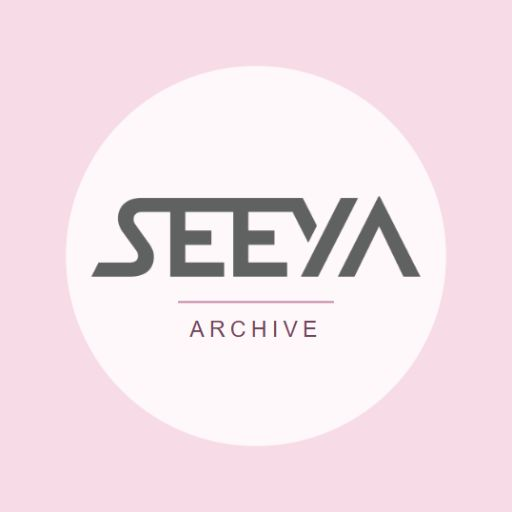
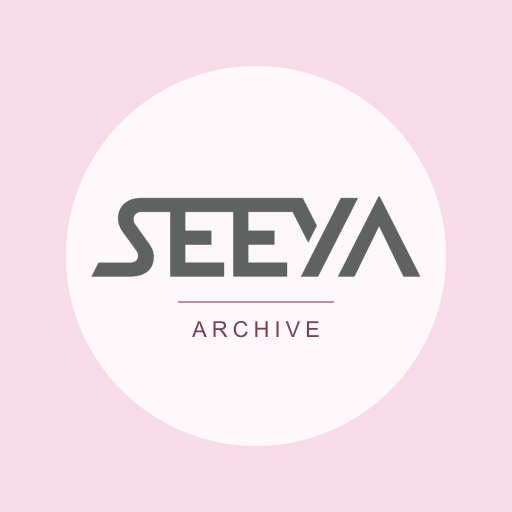
4.187

Changed region(s): [[0.3438, 0.5625, 0.6562, 0.5938], [0.375, 0.625, 0.625, 0.6562]]

diff --git a/scripts/check-icon-pixels.js b/scripts/check-icon-pixels.js
@@ -1,0 +1,31 @@
+'use strict';
+const assert=require('node:assert/strict'),zlib=require('node:zlib');
+// Decode our non-interlaced RGB/RGBA PNGs using Node only. A valid canvas size
+// alone missed the white bottom/right strips in the old 180/192 px exports.
+module.exports=function checkIcon(bytes,label){
+ const w=bytes.readUInt32BE(16),h=bytes.readUInt32BE(20),type=bytes[25];
+ assert.equal(bytes[24],8,label+' bit depth');
+ assert([2,6].includes(type),label+' must be RGB/RGBA');
+ assert.equal(bytes[28],0,label+' interlace');
+ const channels=type===2?3:4,stride=w*channels,chunks=[];
+ for(let at=8;at<bytes.length;){const length=bytes.readUInt32BE(at),kind=bytes.toString('ascii',at+4,at+8);if(kind==='IDAT')chunks.push(bytes.subarray(at+8,at+8+length));at+=12+length;}
+ const raw=zlib.inflateSync(Buffer.concat(chunks)),pixels=Buffer.alloc(stride*h);
+ assert.equal(raw.length,(stride+1)*h,label+' scanlines');
+ function paeth(a,b,c){const p=a+b-c,pa=Math.abs(p-a),pb=Math.abs(p-b),pc=Math.abs(p-c);return pa<=pb&&pa<=pc?a:pb<=pc?b:c;}
+ for(let y=0;y<h;y++){
+  const filter=raw[y*(stride+1)];assert(filter<=4,label+' PNG filter');
+  for(let x=0;x<stride;x++){
+   const i=y*stride+x,a=x>=channels?pixels[i-channels]:0,b=y?pixels[i-stride]:0,c=y&&x>=channels?pixels[i-stride-channels]:0;
+   const delta=[0,a,b,Math.floor((a+b)/2),paeth(a,b,c)][filter];pixels[i]=(raw[y*(stride+1)+1+x]+delta)&255;
+  }
+ }
+ const bg=[247,220,231];
+ for(let y=0;y<h;y++)for(let x=0;x<w;x++){
+  const i=(y*w+x)*channels;
+  if(channels===4)assert.equal(pixels[i+3],255,label+' transparent pixel');
+  // Full bleed on all four sides; no baked-in rounded mask or capture border.
+  if(x<3||y<3||x>=w-3||y>=h-3)for(let c=0;c<3;c++)assert(Math.abs(pixels[i+c]-bg[c])<=1,label+' non-pink edge at '+x+','+y);
+  // Keep every mark within the central 80% circle, safe for maskable launchers.
+  if(Math.hypot(x+.5-w/2,y+.5-h/2)>w*.4)for(let c=0;c<3;c++)assert(Math.abs(pixels[i+c]-bg[c])<=1,label+' artwork outside safe area');
+ }
+};

diff --git a/build.js b/build.js
@@ -122,7 +122,7 @@ for(const route of [...routes,previewRoute,mapPreviewRoute]){
  if(key==='exam'||key==='exam-preview'){vars.pageHead=`<meta name="referrer" content="no-referrer"><link rel="stylesheet" href="${examCss}">`;vars.scripts=`<script defer src="${examJs}"></script>`;}
  if(key!=='map-preview')vars.scripts+=`\n<script defer src="${mobileMenuJs}"></script>`;
  vars.themeColor=esc(pwa.theme_color);
- vars.pwaHead=route.unlisted?'':`<link rel="manifest" href="/manifest.webmanifest">\n<link rel="apple-touch-icon" sizes="180x180" href="/images/app/apple-touch-icon-180.png">\n<meta name="mobile-web-app-capable" content="yes">\n<meta name="apple-mobile-web-app-capable" content="yes">\n<meta name="apple-mobile-web-app-title" content="${esc(pwa.short_name)}">\n<meta name="apple-mobile-web-app-status-bar-style" content="default">`;
+ vars.pwaHead=route.unlisted?'':`<link rel="manifest" href="/manifest.webmanifest">\n<link rel="apple-touch-icon" sizes="180x180" href="/images/app/apple-touch-icon-180-v2.png">\n<meta name="mobile-web-app-capable" content="yes">\n<meta name="apple-mobile-web-app-capable" content="yes">\n<meta name="apple-mobile-web-app-title" content="${esc(pwa.short_name)}">\n<meta name="apple-mobile-web-app-status-bar-style" content="default">`;
  if(!route.unlisted)vars.scripts+=`\n<script defer src="${pwaJs}"></script>\n<script defer src="${offlineJs}"></script>`;
  let output=(key==='map-preview'?read('src/map-preview-template.html'):template).replace(/\{\{(\w+)\}\}/g,(_,key)=>{if(!(key in vars))throw new Error('Unknown template key '+key);return vars[key];});
  if(route.noindex)output=output.replace(/(<meta name="(?:robots|googlebot)" content=")[^"]+/g,'$1noindex,follow');

diff --git a/scripts/check-pwa.js b/scripts/check-pwa.js
@@ -5,10 +5,12 @@ const manifest=JSON.parse(read('manifest.webmanifest'));
 assert.deepEqual(manifest,JSON.parse(read('src/data/pwa.json')));
 assert.equal(manifest.id,'/');assert.equal(manifest.scope,'/');assert.equal(manifest.display,'standalone');
 assert.equal(new URL(manifest.start_url,'https://seeya-fanpage.com').pathname,'/');
-for(const icon of [...manifest.icons,{src:'/images/app/apple-touch-icon-180.png',sizes:'180x180'}]){
+for(const icon of [...manifest.icons,{src:'/images/app/apple-touch-icon-180-v2.png',sizes:'180x180'}]){
  const bytes=fs.readFileSync(path.join(root,icon.src.slice(1)));
  assert.equal(bytes.subarray(1,4).toString(),'PNG');
  assert.equal(`${bytes.readUInt32BE(16)}x${bytes.readUInt32BE(20)}`,icon.sizes,icon.src);
+ require('./check-icon-pixels')(bytes,icon.src);
+ assert.deepEqual(bytes,fs.readFileSync(path.join(root,icon.src.slice(1).replace('-v2.png','.png'))),'Legacy icon must also be repaired');
 }
 assert(manifest.icons.some(icon=>icon.purpose==='maskable'));
 for(const shortcut of manifest.shortcuts)assert(fs.existsSync(path.join(root,shortcut.url.slice(1),'index.html')));
@@ -16,6 +18,7 @@ const build=JSON.parse(read('build-manifest.json'));
 for(const file of build.files.filter(p=>p.endsWith('.html'))){
  const html=read(file);
  assert.equal((html.match(/rel="manifest"/g)||[]).length,1,file);
+ assert(html.includes('href="/images/app/apple-touch-icon-180-v2.png"'),file+' updated Apple icon');
  assert.equal((html.match(/name="theme-color"/g)||[]).length,1,file);
  assert(html.includes(`name="theme-color" content="${manifest.theme_color}"`));
  assert(html.includes('href="/about/">ABOUT</a>'),file);

diff --git a/src/shared/install-guide.js b/src/shared/install-guide.js
@@ -1,5 +1,5 @@
 module.exports=function installGuide(){return `<section id="install" class="install-guide" aria-labelledby="installTitle">
- <div class="install-guide-heading"><img src="/images/app/icon-192.png" width="64" height="64" alt="SEEYA ARCHIVE 앱 아이콘" loading="lazy"><div><div class="eye">SEEYA WITH YOU</div><h2 id="installTitle"><span>홈 화면에서</span> <span>씨야를 만나요</span></h2></div></div>
+ <div class="install-guide-heading"><img src="/images/app/icon-192-v2.png" width="64" height="64" alt="SEEYA ARCHIVE 앱 아이콘" loading="lazy"><div><div class="eye">SEEYA WITH YOU</div><h2 id="installTitle"><span>홈 화면에서</span> <span>씨야를 만나요</span></h2></div></div>
  <p>홈 화면에 추가하면 아이콘을 눌러 바로 방문할 수 있어요.<br>SEEYA ARCHIVE는 인터넷 연결이 필요한 비공식 팬 웹 앱입니다.</p>
  <p>인터넷에 연결된 상태로 방문한 뒤에는, 연결이 끊겨 페이지를 열 수 없을 때 다시 연결할 수 있도록 안내해 드려요. 기록과 퀴즈를 이용하려면 인터넷 연결이 필요합니다.</p>
  <button type="button" id="pwaInstall" hidden>홈 화면에 추가</button>

diff --git a/README.md b/README.md
@@ -1,3 +1,15 @@
+# SEEYA ARCHIVE v4.187 — 앱 아이콘·아카이브 업데이트
+
+**누적 업데이트:** `SEEYA_v4_187_APP_ICON_ARCHIVE_UPLOAD.zip`. 4.186까지 포함합니다. GitHub Desktop에서 Fetch/Pull origin 후 기존 사이트 폴더에 덮어쓰고 Commit → Push하세요. 운영 `data/`·`state/`와 생성 HTML은 덮어쓰지 않습니다. 전체 ZIP은 백업용입니다.
+
+- 앱 아이콘의 흰 테두리 원인을 수정하고 모든 크기를 다시 만들었습니다. 배포 후에도 아이폰 홈 화면에 예전 아이콘이 남으면 기존 홈 화면 아이콘을 삭제한 뒤 Safari에서 ‘홈 화면에 추가’를 다시 해주세요. 실제 아이폰의 설치·캐시 갱신 여부는 기기에서 확인해야 합니다.
+- 아카이브 신규 5건, 기존 1건 보완. 원본 1,364→1,369건이며 숨김·통합을 제외한 화면 합계는 별도입니다. 숲세권 라이브·불후의 명곡 녹화·아산 가족 한마당은 캘린더에도 표시됩니다.
+- 골때녀 235회 기록은 신입 선수 소개 화면이며 경기 출전이 아닙니다. 아산 가족 행사는 일반 관람 가능 여부를 주최 측에 확인해 주세요. 공개일·방송일·녹화일·행사일은 각 카드에서 구분합니다.
+- 로컬 미리보기: `serve-local.bat`. 빌드: `node build.js`. 검사: `node scripts/check.js`. **생성된 HTML 직접 편집 금지.**
+- 새 출처는 각 기록에 연결했습니다. 이후 운영 중 추가된 기록·링크는 업데이트 과정에서 보존합니다.
+
+---
+
 # SEEYA ARCHIVE v4.186 — 최신 라디오·활동 기록 갱신
 
 **누적 업데이트:** `SEEYA_v4_186_ARCHIVE_RADIO_UPLOAD.zip`. 4.185까지 포함합니다. GitHub Desktop에서 Fetch/Pull origin을 완료한 뒤 기존 사이트 폴더에 덮어쓰고 Commit → Push하세요. 운영 `data/`·`state/`와 생성 HTML은 덮어쓰지 않습니다. 전체 ZIP은 백업용입니다.

diff --git a/CHANGELOG.md b/CHANGELOG.md
@@ -1,3 +1,11 @@
+## v4.187 — 앱 아이콘 여백 수정·10월 8일 저녁 기록 갱신
+
+- 아이폰용 180px 및 192px 아이콘에 있던 오른쪽·아래쪽 흰 여백을 제거. 기존 SVG에서 모든 크기를 정확한 정사각형·불투명 분홍 배경으로 재출력하고 로고를 마스크 안전 영역에 유지. 새 v2 파일명으로 manifest·Apple 링크·설치 안내를 갱신하고 기존 파일도 교체. 앱 id·scope·start_url 유지.
+- 신규 5건: 김연지 숲세권 라이브 공개(10/10 20:00), 씨야 불후의 명곡 왁스 편 녹화(10/19 11:40), 아산공장 가족 한마당(10/25 09:00 행사 시작), 이보람×경서 공식 Shorts(10/8), 골때녀 235회 신입 소개 화면(10/7). 마지막 항목은 경기 출전으로 표현하지 않음.
+- 예정 3건은 같은 원본에서 캘린더에 반영. 아산 포스터의 09:00은 전체 행사 시작이며 개별 무대 시각·일반 관람을 확정하지 않음. KBS는 방송일 대신 녹화일 사용.
+- 기존 골때녀 231회에 공식 전체 경기 영상 추가, 9/9 방송일 유지. 운영 관리 화면에서 추가된 대전과기대·고양 자료 보존. 해병대 스토리는 행사명·활동일 확인 전 독립 공연 기록 추가 보류.
+- 아이콘 검사에 픽셀 경계·불투명도·마스크 안전 영역 및 모든 공개 HTML의 새 아이콘 연결 검증 추가. 기존 설치 아이콘은 기기에 캐시될 수 있어 재추가가 필요할 수 있음.
+
 ## v4.186 — 10월 8일 아카이브 갱신
 
 - 정적 생성 기준일을 10/8로 갱신해 신규 라디오가 초기 목록에 포함되도록 수정. 행사 완료 전환을 정상 상태로 인정하도록 검사 조건 보완.
